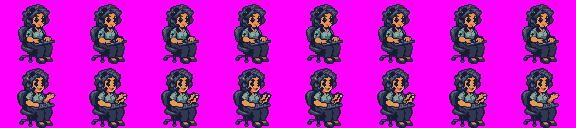
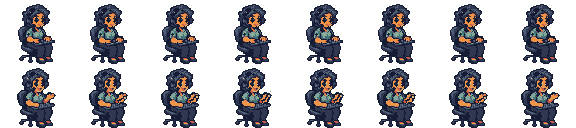
V2.9.4: fix magenta backgrounds on coworker v2 sheets; coworker loader keys magenta
Claude-Session: https://claude.ai/code/session_01Lig4WMWRCVLc1Xd5Xfcw9r

diff --git a/src/start-area.js b/src/start-area.js
@@ -40,9 +40,15 @@ window.StartAreaArt = (() => {
    const key=poseKey(kind,id);
    if(scene.textures.exists(key))continue;
    try{
-    const img=await H.image(`assets/stage/coworkers/world/coworker-${id}-${kind}-v2.png`);
+    const img=await H.image(`assets/stage/coworkers/world/coworker-${id}-${kind}-v2.png?v=${window.BUILD||1}`);
     if(!H.isAlive())return;
-    scene.textures.addSpriteSheet(key,img,{frameWidth:w,frameHeight:h});
+    // Key out exact magenta (#FF00FF) in case a sheet arrives with a solid background (Nov 5: the v2 sheets did).
+    const cv=document.createElement('canvas');cv.width=img.width;cv.height=img.height;
+    const cx=cv.getContext('2d',{willReadFrequently:true});cx.drawImage(img,0,0);
+    const px=cx.getImageData(0,0,cv.width,cv.height),d=px.data;
+    for(let i=0;i<d.length;i+=4)if(d[i]===255&&d[i+1]===0&&d[i+2]===255)d[i+3]=0;
+    cx.putImageData(px,0,0);
+    scene.textures.addSpriteSheet(key,cv,{frameWidth:w,frameHeight:h});
     scene.textures.get(key).setFilter(Phaser.Textures.FilterMode.NEAREST);
    }catch(error){console.warn('Coworker world pose missing for '+id+' ('+kind+'), using the old art');}
   }

diff --git a/src/data/version.js b/src/data/version.js
@@ -2,12 +2,17 @@
 // Update `version`, `displayVersion`, `lastUpdated`, `build`, and prepend a `changelog` entry after each finished step!
 
 const GAME_VERSION = {
-  version: "2.9.3",
-  displayVersion: "V. 2.9.3",
+  version: "2.9.4",
+  displayVersion: "V. 2.9.4",
   lastUpdated: "Nov 5, 2026",
   codename: "Version Two",
-  build: 254,
+  build: 255,
   changelog: [
+    {
+      ver: "V. 2.9.4", date: "Nov 5, 2026", title: "Version Two",
+      teaser: "Fixed: pink boxes behind the office coworkers.",
+      highlights: ["The cleaned-up coworkers briefly showed a solid magenta background. They're see-through again."]
+    },
     {
       ver: "V. 2.9.3", date: "Nov 5, 2026", title: "Version Two",
       teaser: "Fiscal Year 2: a fresh leaderboard and an optional Corporate Buyout. (Thanks again, Kevin.)",

diff --git a/src/loader.js b/src/loader.js
@@ -1,7 +1,7 @@
 // Loads the game's code files in order, all tagged with the same BUILD number.
 // index.html fetches this file fresh on every visit, so the browser can't mix an old page with new code
 // (that mismatch broke controls until a second reload). Bump BUILD after every change; it replaces the old ?v= tags.
-window.BUILD = 254;
+window.BUILD = 255;
 window.GAME_FILES = [
   "src/data/version.js",
   "src/data/lore.js",

diff --git a/index.html b/index.html
@@ -1638,7 +1638,7 @@ if (!window.TELEMETRY_OFF && !/[?&]nostats=1/.test(location.search)) {
 <script>
   (function () {
     var s = document.createElement("script");
-    s.src = "src/loader.js?v=254&t=" + Date.now();
+    s.src = "src/loader.js?v=255&t=" + Date.now();
     document.body.appendChild(s);
   })();
 </script>

diff --git a/docs/handoffs/chatgpt-changes.md b/docs/handoffs/chatgpt-changes.md
@@ -378,3 +378,7 @@ Newest at the bottom. Rami pastes ChatGPT's change-log blocks here. Claude reads
 - Delivered twelve v2 world sheets and 42 timed previews. The working pose keeps its chair and face fixed, the personal bits keep their individual gestures, and the standing poses use alternating walks and a one-pixel breath in the clothing.
 - Sprite Board working peaks at 4.7%, standing idle at 3.5%, and all 336 cells have zero enclosed magenta holes. [Before/after counts and review](chatgpt-coworker-cleanup-results.md).
 - For integration, key exact magenta and set standing origin to 56/60. The seated origin stays at 63/64. Claude switches the sheets and refreshes the Sprite Board catalog.
+
+## Note for future art (Nov 5, Claude)
+- The coworker v2 sheets arrived as RGB with a solid #FF00FF background, and the coworker loader didn't key magenta, so pink boxes showed in game (fixed in V. 2.9.4). Claude converted them to transparent PNGs and made the loader key magenta too.
+- Going forward: either format works now, but please say which one in the handoff.

diff --git a/docs/PROGRESS_LOG.md b/docs/PROGRESS_LOG.md
@@ -1540,3 +1540,4 @@ Newest entries at the bottom. Each work session and weekly check-in adds one ent
 - The board shows the current fiscal year by default (FY2 = from Nov 4, Version Two), with a SHOW ALL-TIME toggle. No database change: it filters by date.
 - Once per fiscal year, players with shop ranks get an optional Corporate Buyout memo: ranks cashed out at 50% of what they spent, plus a BOUGHT OUT tag on that year's board. The cursor starts on KEEP.
 - New fiscal year = add a line to `SEASONS` in src/data/leaderboard.js (plan: Fiscal Year 3 with Version 3.0).
+- V2.9.4: fixed magenta boxes behind the coworkers (v2 sheets had a solid magenta background). Sheets converted to transparent, and the coworker loader now keys magenta itself.
